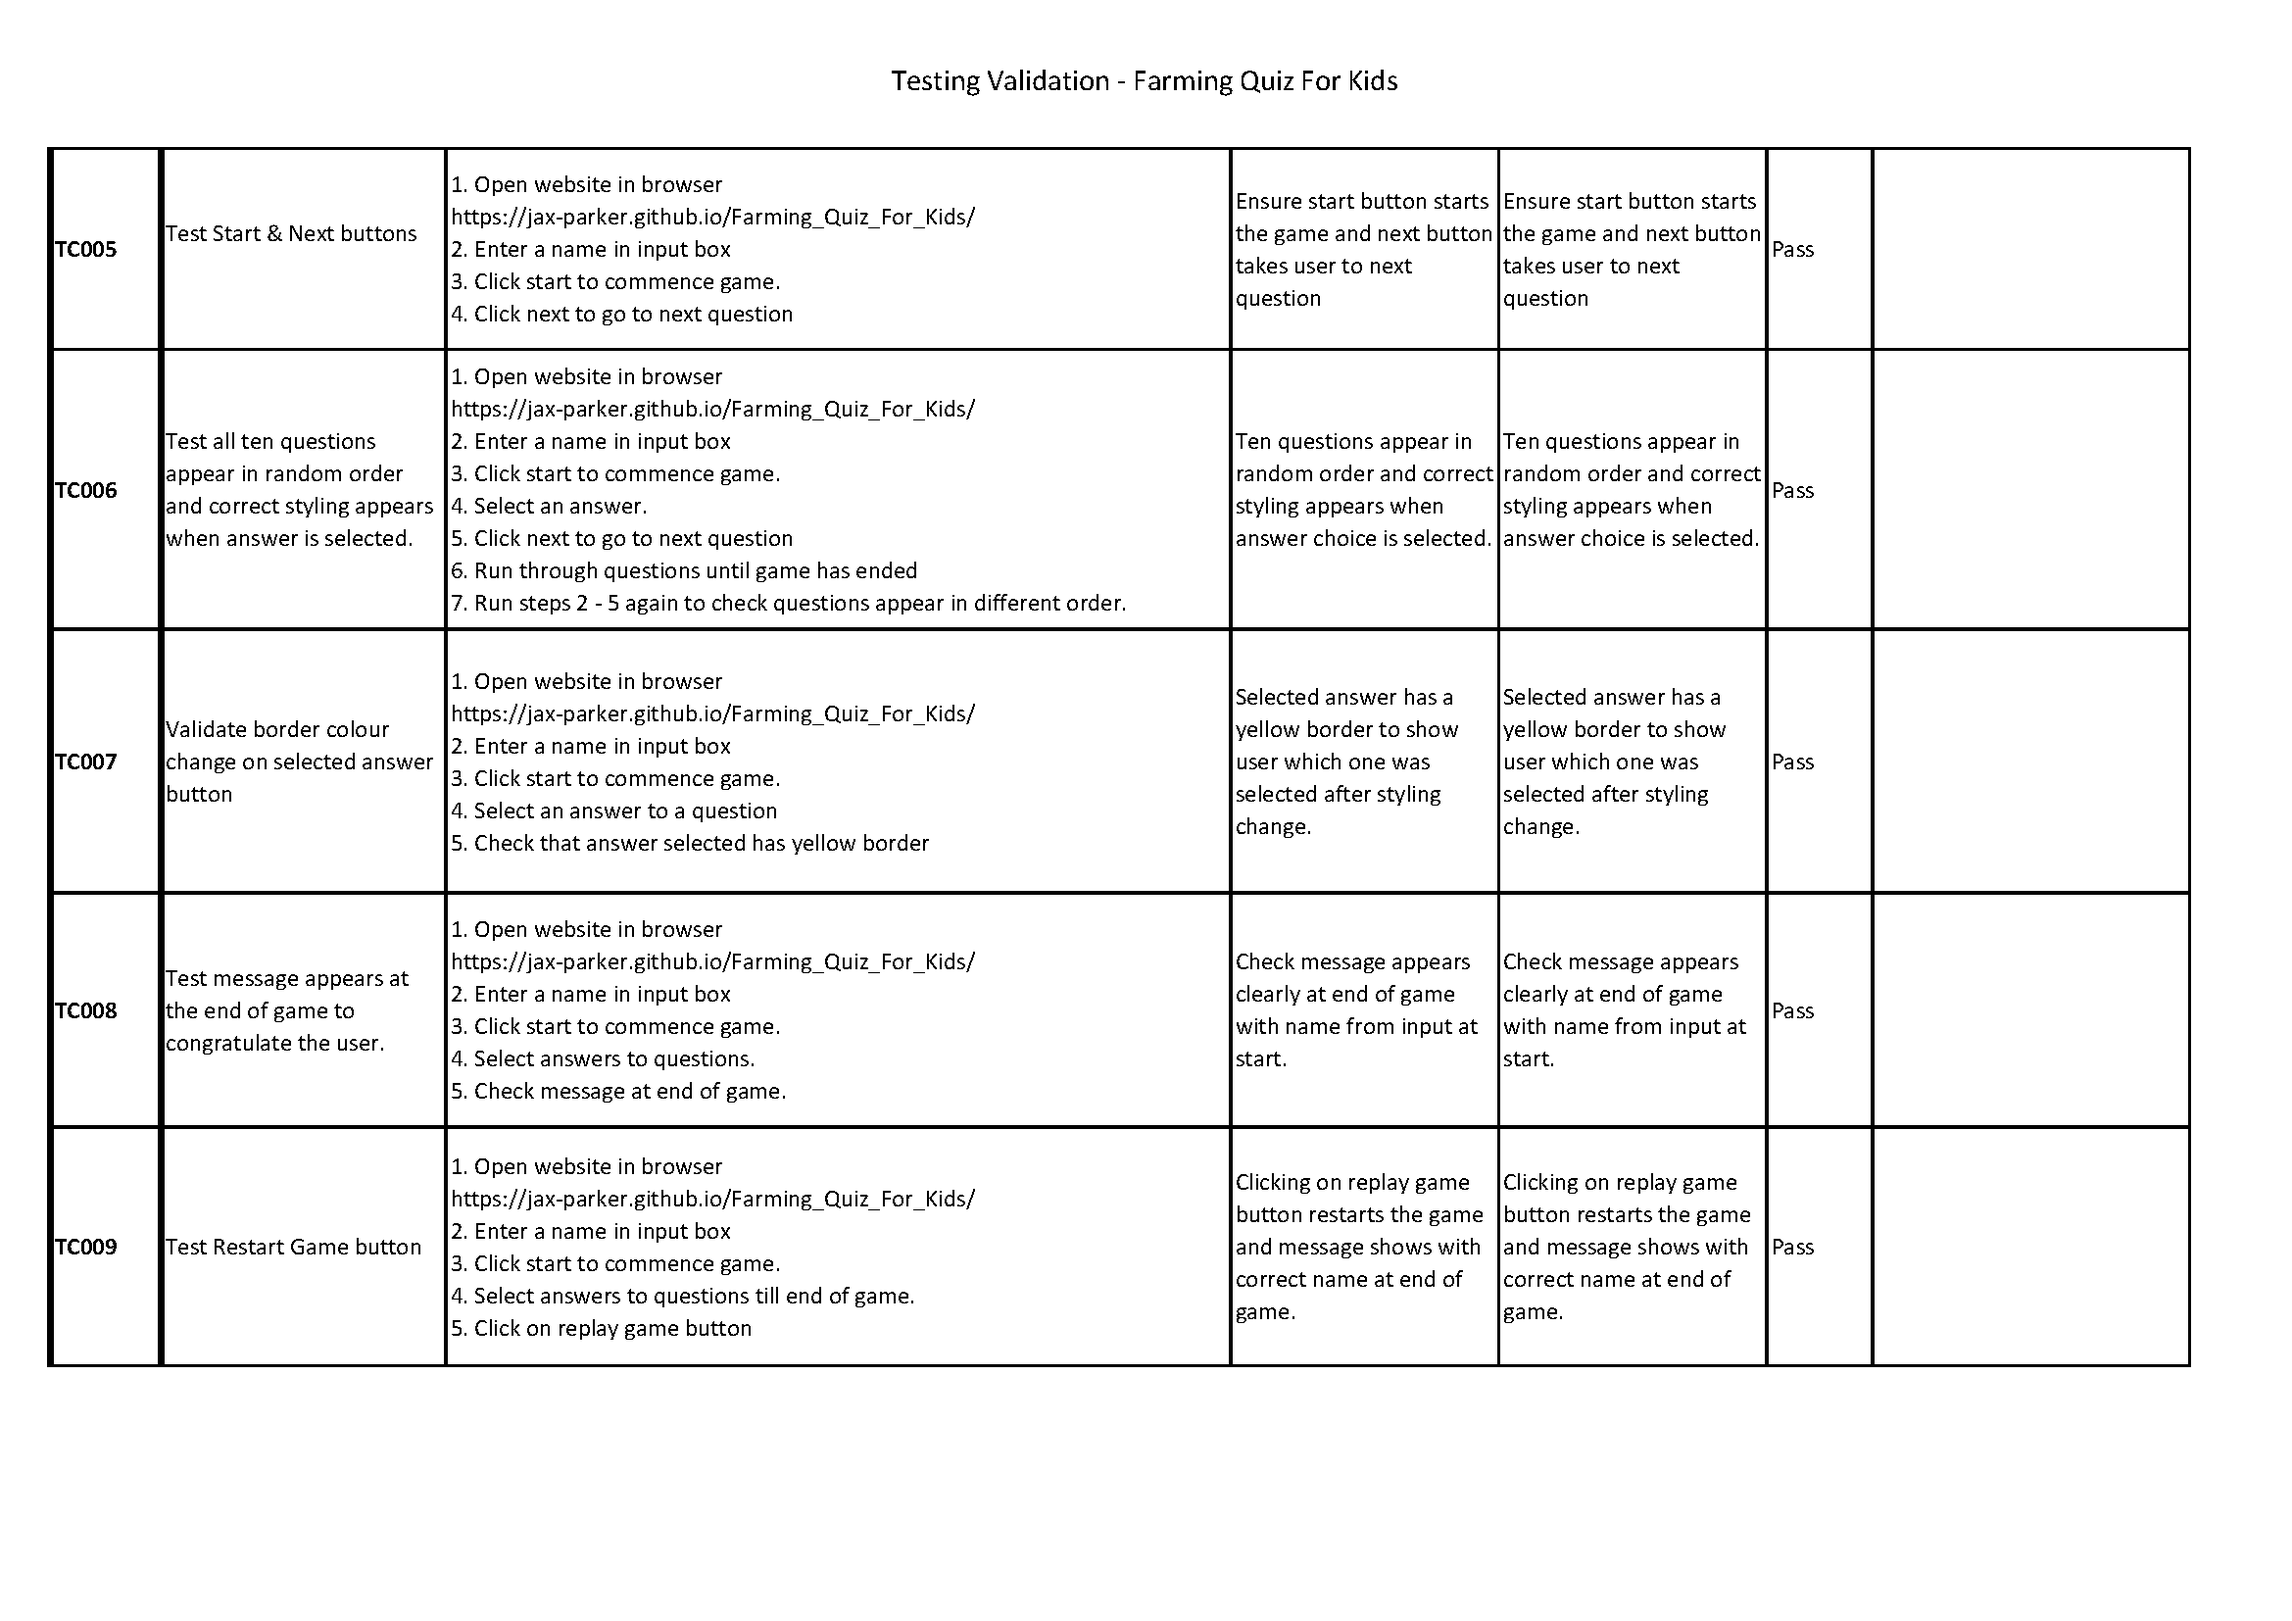
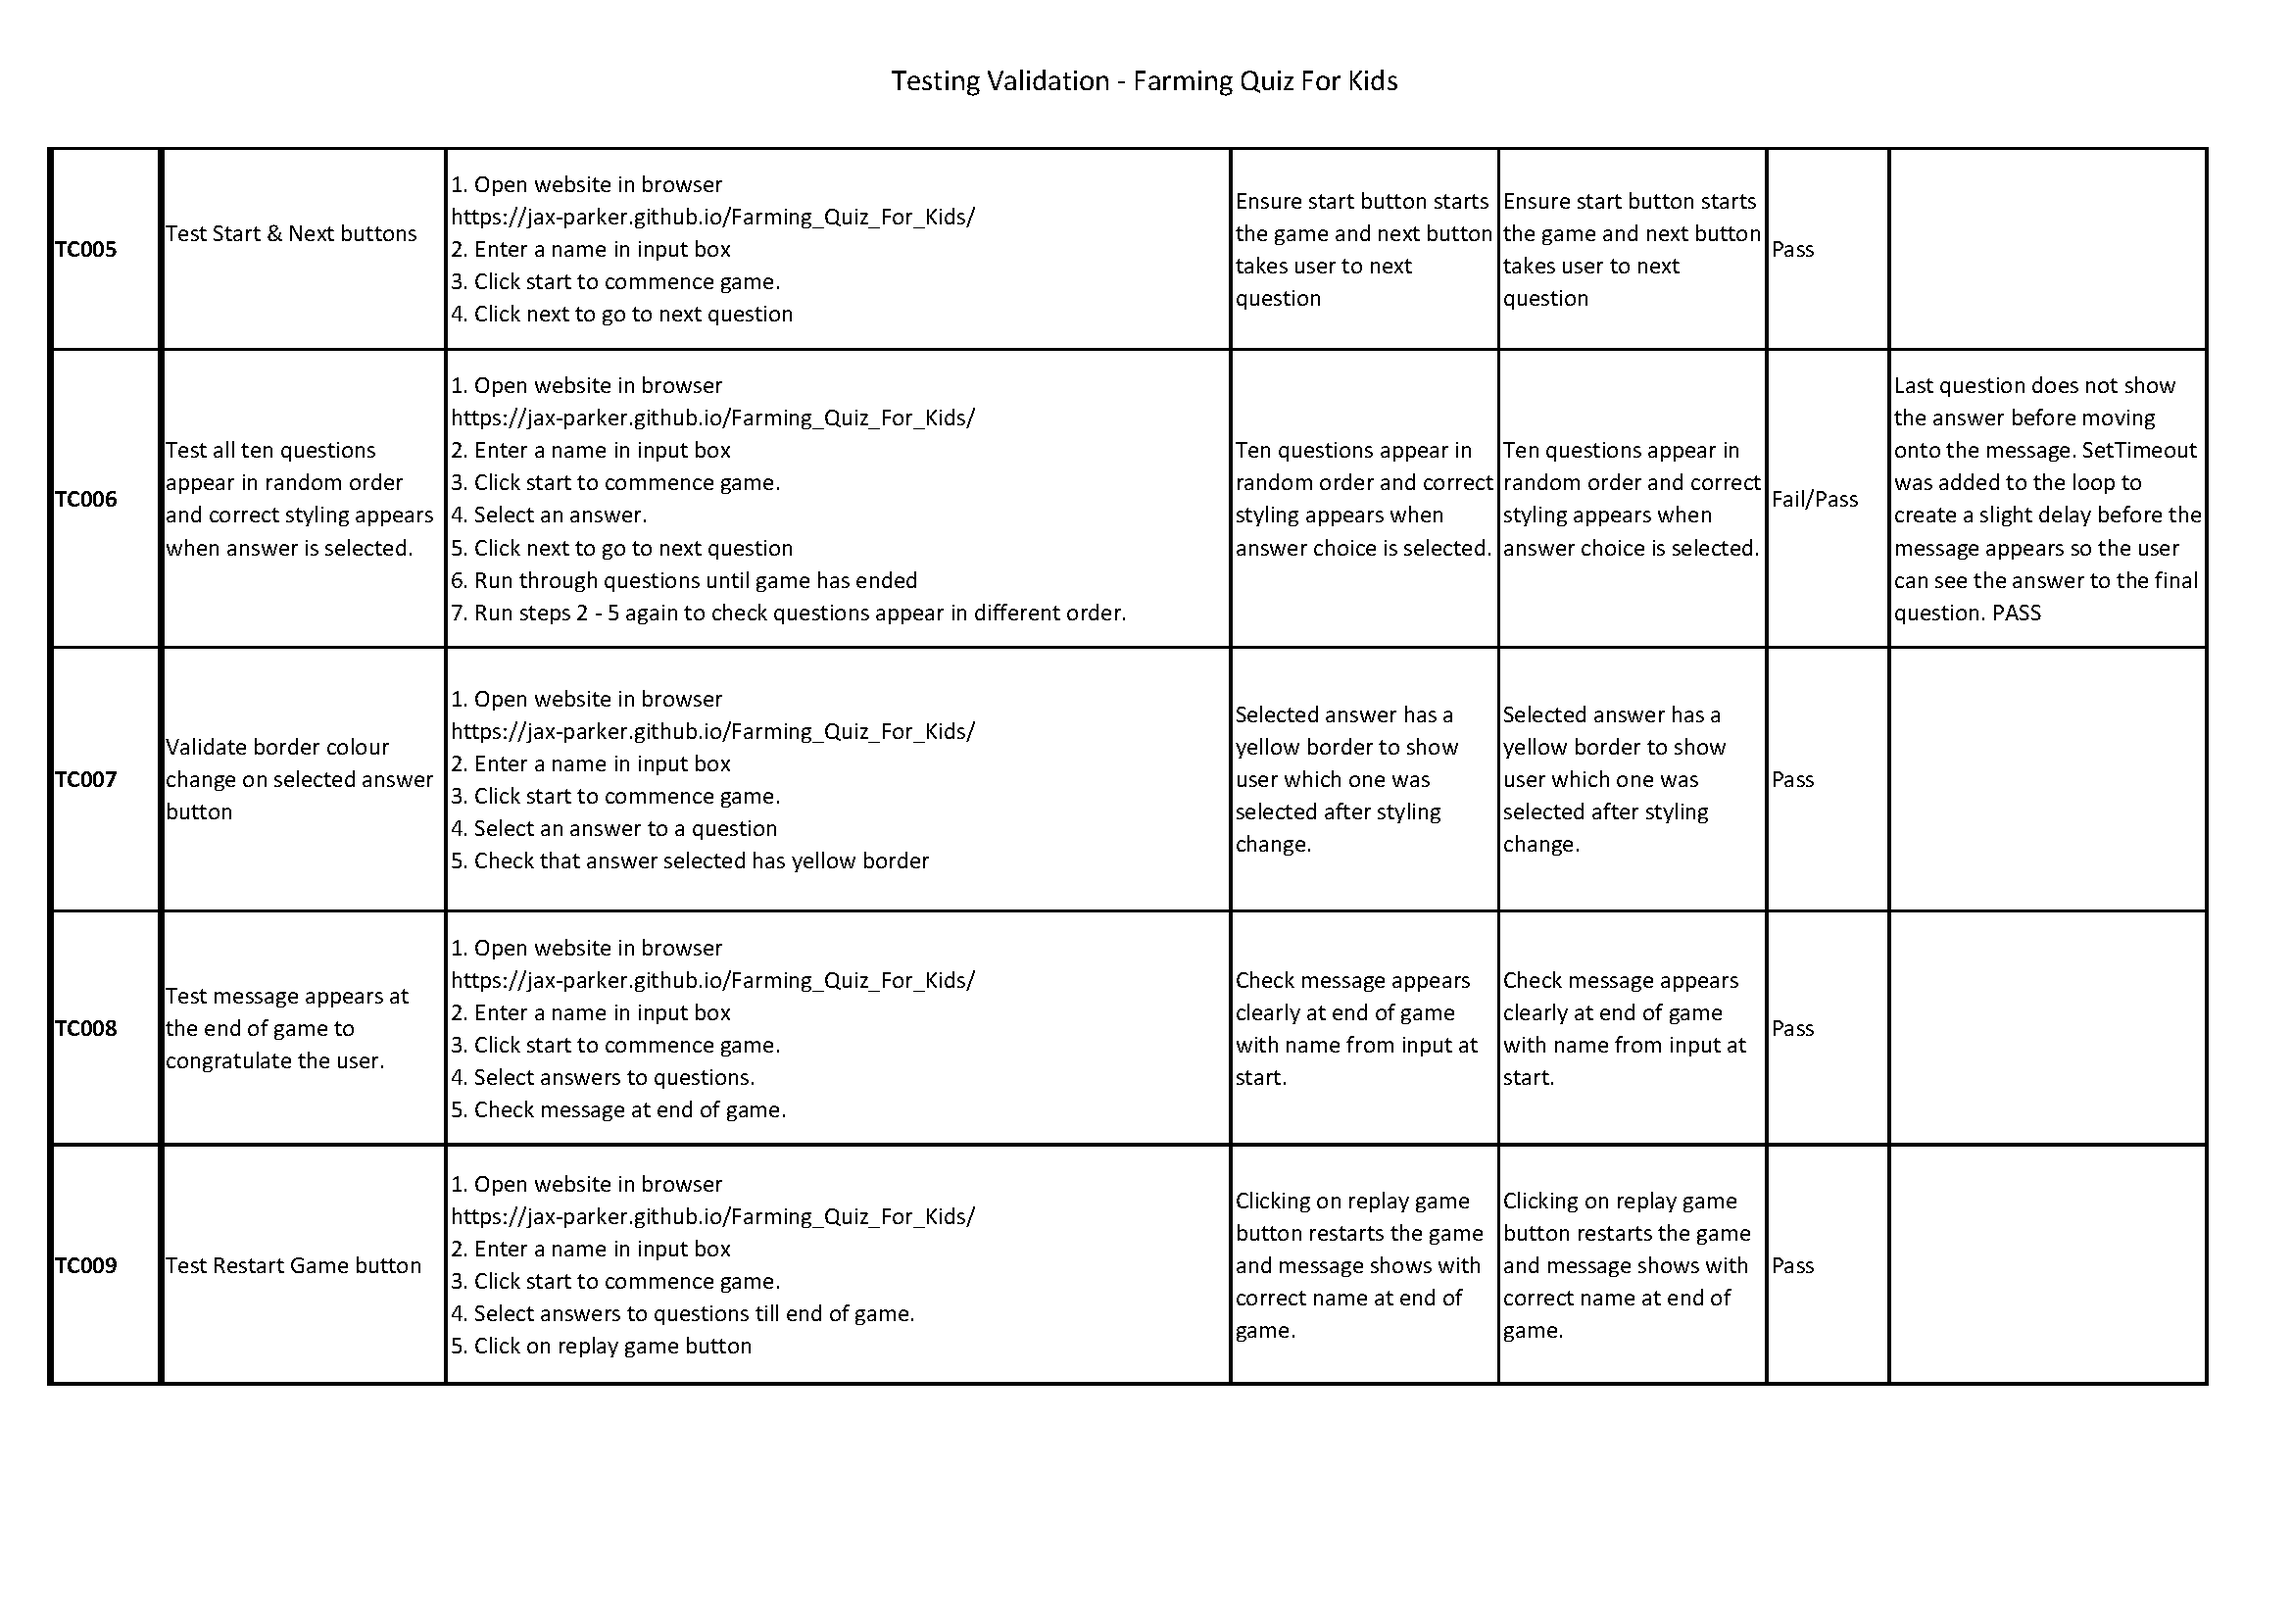
retest delay and update testing sheet in readme

diff --git a/README.md b/README.md
@@ -175,7 +175,7 @@ Accessibility has been taken into account throughout the design of this website 
   * Choosing bright contrasting colours to give clarity to navigation and readability. After running through Google Lighthouse    though the button colours were deemed inaccessable to readers so I used Deque University website to change the colours to a more accessible read. Webite can be found [here](https://dequeuniversity.com/rules/axe/4.4/color-contrast?utm_source=lighthouse&utm_medium=devtools)<br>
   * Google Lighthouse retest after colour changes<br>
   ![Google lighthouse](assets/readme-images/lighthouse-score.png) 
-  * To validate web accessibility the website was tested on [Wave](https://wave.webaim.org/). Aria labels were missing for the page and the input box so these were added and retested with one error for an empty H1 which is created in JavaScript so not amended.
+  * To validate web accessibility the website was tested on [Wave](https://wave.webaim.org/). Aria labels were missing for the page and the input box so these were added and retested with one error for an empty H1 which is created in JavaScript so not amended.<br>
   ![Wave](assets/readme-images/wave-report.png)
 
  ## Validation Testing
@@ -198,6 +198,7 @@ The site was tested for responsiveness at [Am I Responsive Ready](https://amires
 * Yellow border was not big enough on selected answer. This was resolved by making the border pixels larger.
 * Correct/Incorrect buttons colour was deemed to be insufficient in contrast. This was resolved by using the Deque University website to find suitable colours and changed CSS.
 * Proof read though and amend spelling mistakes.
+* No delay between the last question and the message. This was resolved by adding a setTimout to the question loop.
 
 ## Deployment
 
@@ -223,6 +224,7 @@ The following commands were used throughout the project:
 ### Code
 The html,css and javaScript code was learned from the Code Institute Full Stack Software Developer Course and by practising the Love Maths project.
 I also completed a Scrimba course on JavaScript (https://scrimba.com/learn/learnjavascript & https://javascript.info/first-steps) to bolster my knowledge as recommended by my mentor, Ronan McClelland.
+Set timeout was learned via this Stackoverflow question (https://stackoverflow.com/questions/14226803/wait-5-seconds-before-executing-next-line)
 I also watched three YouTube tutorials - site addresses below:
   * User Input and Response on a webpage using JavaScript(for beginners) - https://www.youtube.com/watch?v=KB6Yg5hNrqc
   * How to Make a Quiz App using HTML CSS Javascript - Vanilla Javascript Project for Beginners Tutorial - https://www.youtube.com/watch?v=f4fB9Xg2JEY&t=2293s
